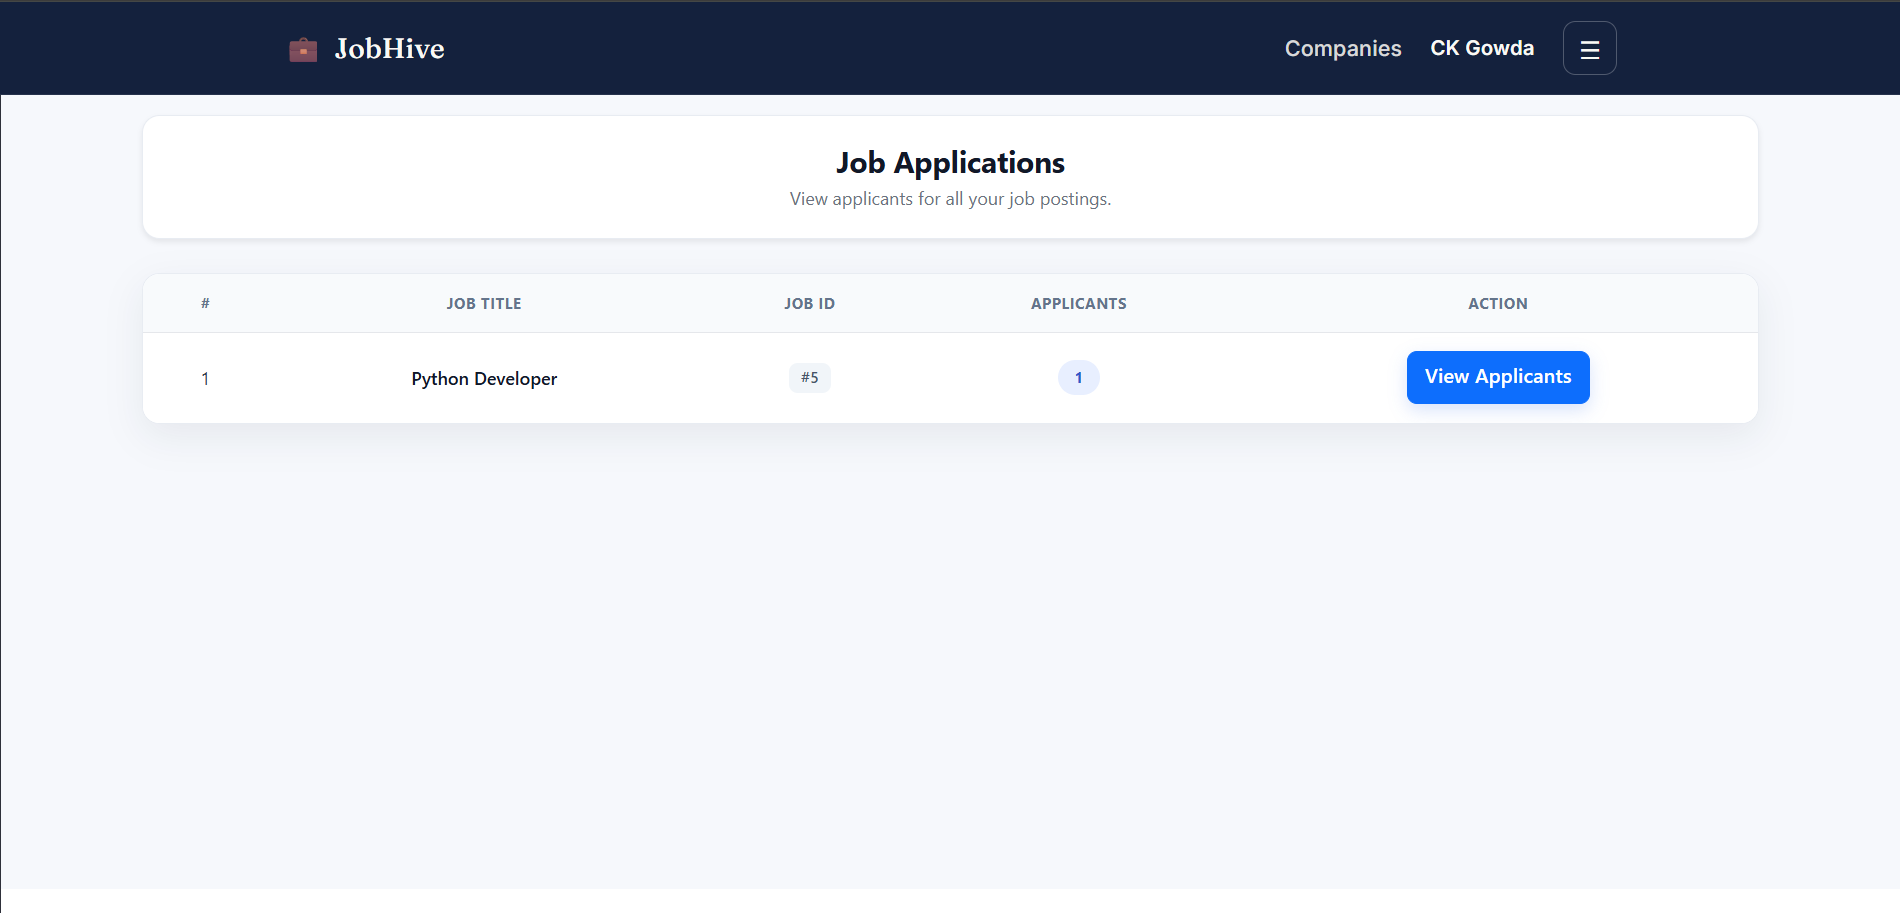
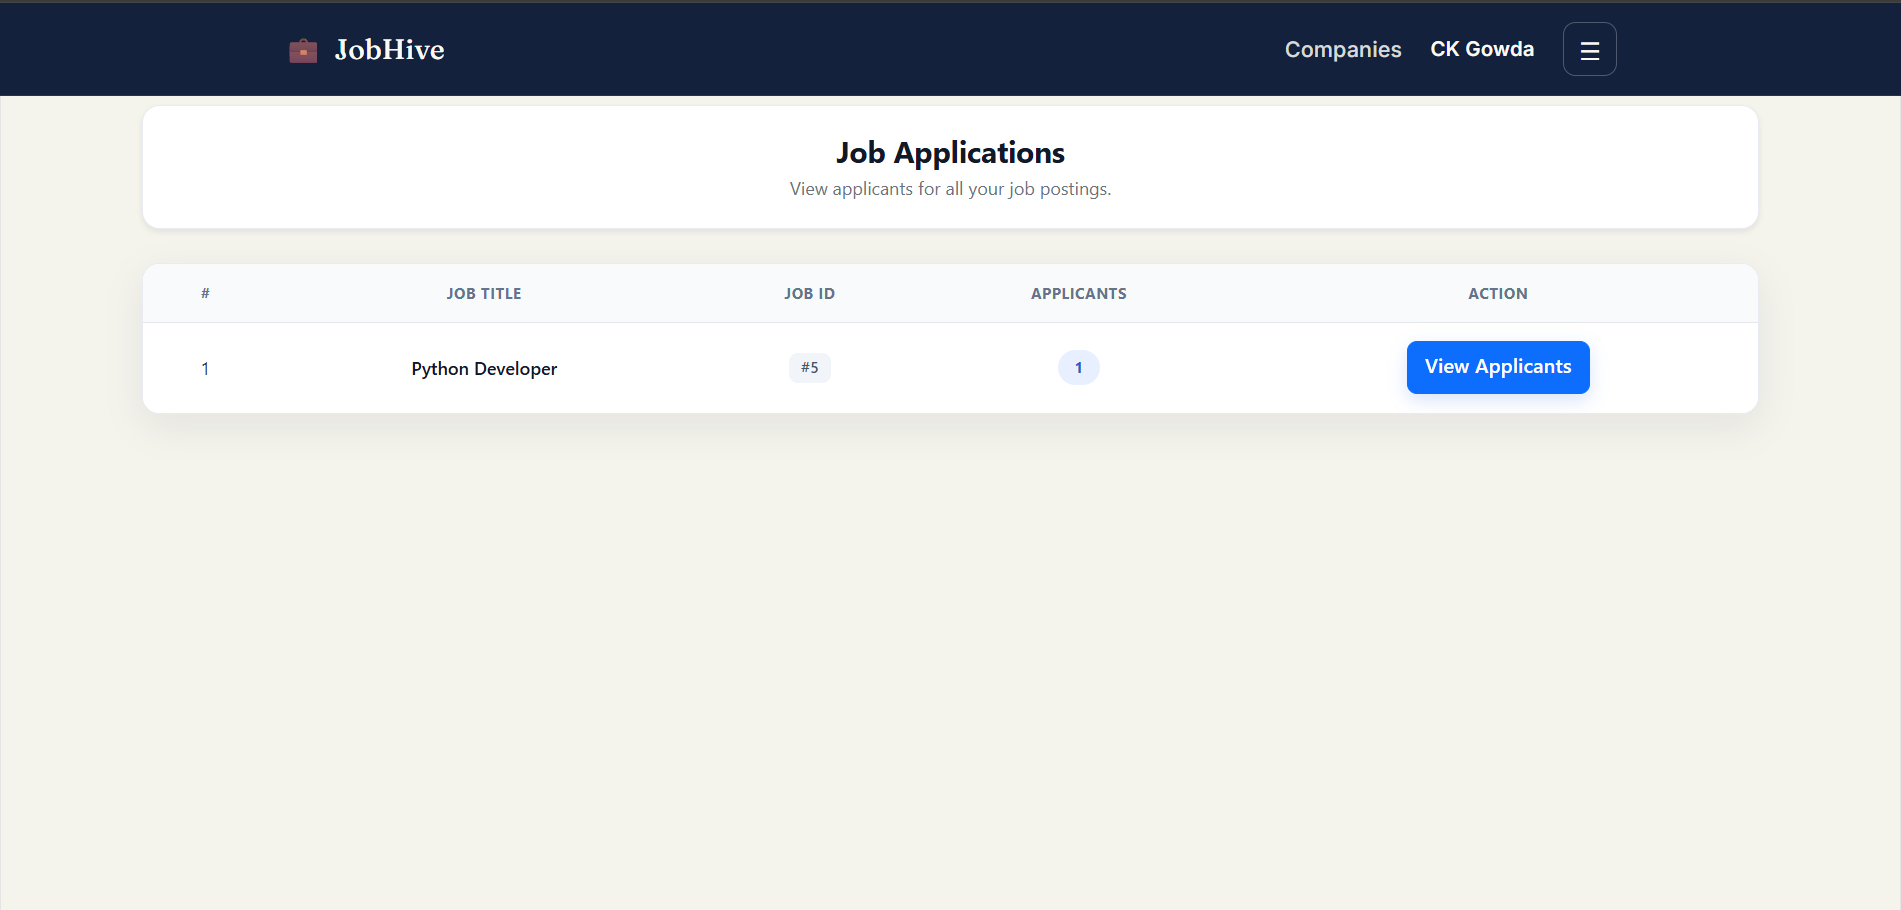
Updates in README.md

diff --git a/frontend/src/index.css b/frontend/src/index.css
@@ -30,35 +30,15 @@
   }
 }
 
-@media (prefers-color-scheme: dark) {
-  :root {
-    --text: #9ca3af;
-    --text-h: #f3f4f6;
-    --bg: #16171d;
-    --border: #2e303a;
-    --code-bg: #1f2028;
-    --accent: #c084fc;
-    --accent-bg: rgba(192, 132, 252, 0.15);
-    --accent-border: rgba(192, 132, 252, 0.5);
-    --social-bg: rgba(47, 48, 58, 0.5);
-    --shadow:
-      rgba(0, 0, 0, 0.4) 0 10px 15px -3px, rgba(0, 0, 0, 0.25) 0 4px 6px -2px;
-  }
-
-  #social .button-icon {
-    filter: invert(1) brightness(2);
-  }
-}
-
 body {
   padding-top: 50px;
+  
 }
 body:hover{
   cursor: default;
 }
 
 #root {
-  /* width: 1126px; */
   max-width: 100%;
   margin: 0 auto;
   text-align: center;
@@ -67,6 +47,8 @@ body:hover{
   display: flex;
   flex-direction: column;
   box-sizing: border-box;
+      background: var(--code-bg);
+
 }
 
 h1,

diff --git a/frontend/src/pages/recruiter/company/MyCompany.css b/frontend/src/pages/recruiter/company/MyCompany.css
@@ -6,6 +6,7 @@
 
 .container {
     max-width: 1180px;
+    
 }
 
 
@@ -14,7 +15,7 @@
 ========================================= */
 
 body {
-    background: #f6f8fc;
+    background: var(--code-bg);
 }
 
 

diff --git a/frontend/src/pages/recruiter/company/CreateCompany.css b/frontend/src/pages/recruiter/company/CreateCompany.css
@@ -5,7 +5,7 @@
 
 .create-company-page {
     min-height: calc(100vh - 70px);
-    background: #f6f8fc;
+    background: var(--code-bg);
     padding-bottom: 40px;
 }
 

diff --git a/frontend/src/pages/recruiter/application/RecruiterApplications.css b/frontend/src/pages/recruiter/application/RecruiterApplications.css
@@ -5,7 +5,7 @@
 
 .applications-bg {
     min-height: calc(100vh - 70px);
-    background: #f6f8fc;
+    background: var(--code-bg);
     padding-bottom: 30px;
 }
 

diff --git a/frontend/src/pages/recruiter/job/CreateJob.css b/frontend/src/pages/recruiter/job/CreateJob.css
@@ -11,7 +11,7 @@
 
 .create-job-bg {
     min-height: calc(100vh - 70px);
-    background: #f6f8fc;
+    background: var(--code-bg);
     padding-bottom: 2rem;
 }
 

diff --git a/frontend/src/pages/recruiter/application/JobApplicants.css b/frontend/src/pages/recruiter/application/JobApplicants.css
@@ -5,7 +5,7 @@
 
 .applicants-bg {
     min-height: calc(100vh - 70px);
-    background: #f6f8fc;
+    background: var(--code-bg);
     padding-bottom: 30px;
 }
 

diff --git a/frontend/src/pages/recruiter/RecruiterDashboard.css b/frontend/src/pages/recruiter/RecruiterDashboard.css
@@ -5,7 +5,7 @@
 
 .dashboard-bg {
     min-height: calc(100vh - 70px);
-    background: #f6f8fc;
+    background: var(--code-bg);
     padding-bottom: 35px;
 }
 

diff --git a/frontend/src/pages/recruiter/job/EditJob.css b/frontend/src/pages/recruiter/job/EditJob.css
@@ -5,7 +5,7 @@
 
 .edit-job-bg {
     min-height: calc(100vh - 70px);
-    background: #f6f8fc;
+    background: var(--code-bg);
     padding-bottom: 30px;
 }
 

diff --git a/frontend/src/pages/recruiter/job/MyJobs.css b/frontend/src/pages/recruiter/job/MyJobs.css
@@ -5,7 +5,7 @@
 
 .jobs-bg {
     min-height: calc(100vh - 70px);
-    background: #f6f8fc;
+    background: var(--code-bg);
     padding-bottom: 35px;
 }
 
